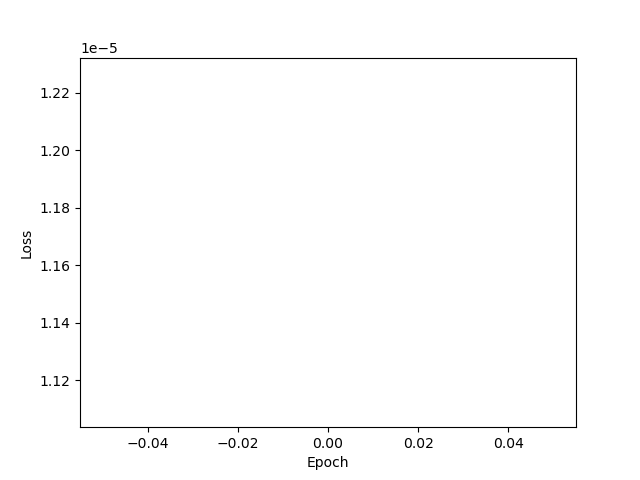
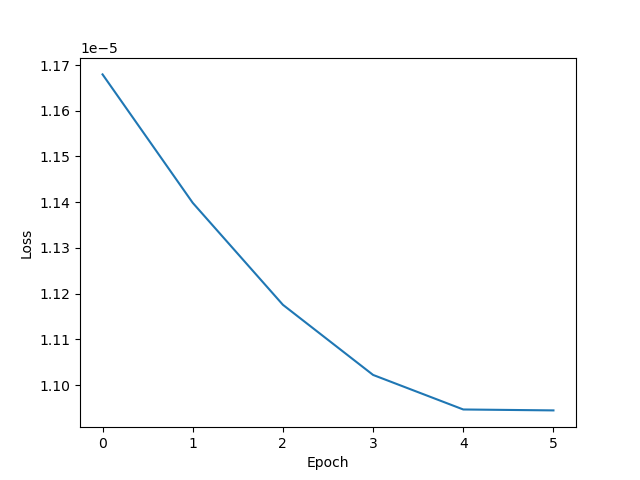
Data experiment

diff --git a/new/NEODE_all.py b/new/NEODE_all.py
@@ -155,7 +155,7 @@ del data_model
 model = ECOAT(L, Sigma, R_film0, VR=VR).to(device)
 optimizer = torch.optim.Adam(model.parameters(), lr = 5e-2)
 
-epochs = 1
+epochs = 6
 n_batch = 1
 
 loss_v = np.zeros((epochs, ))
